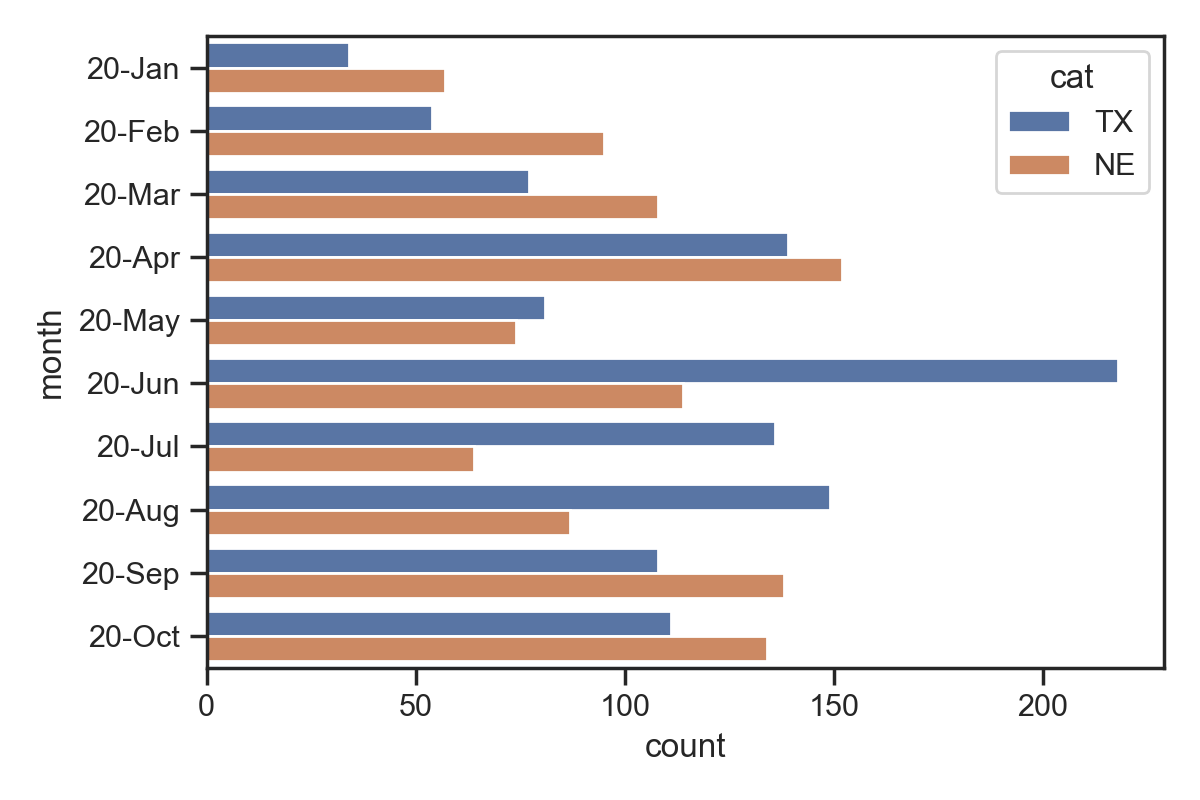
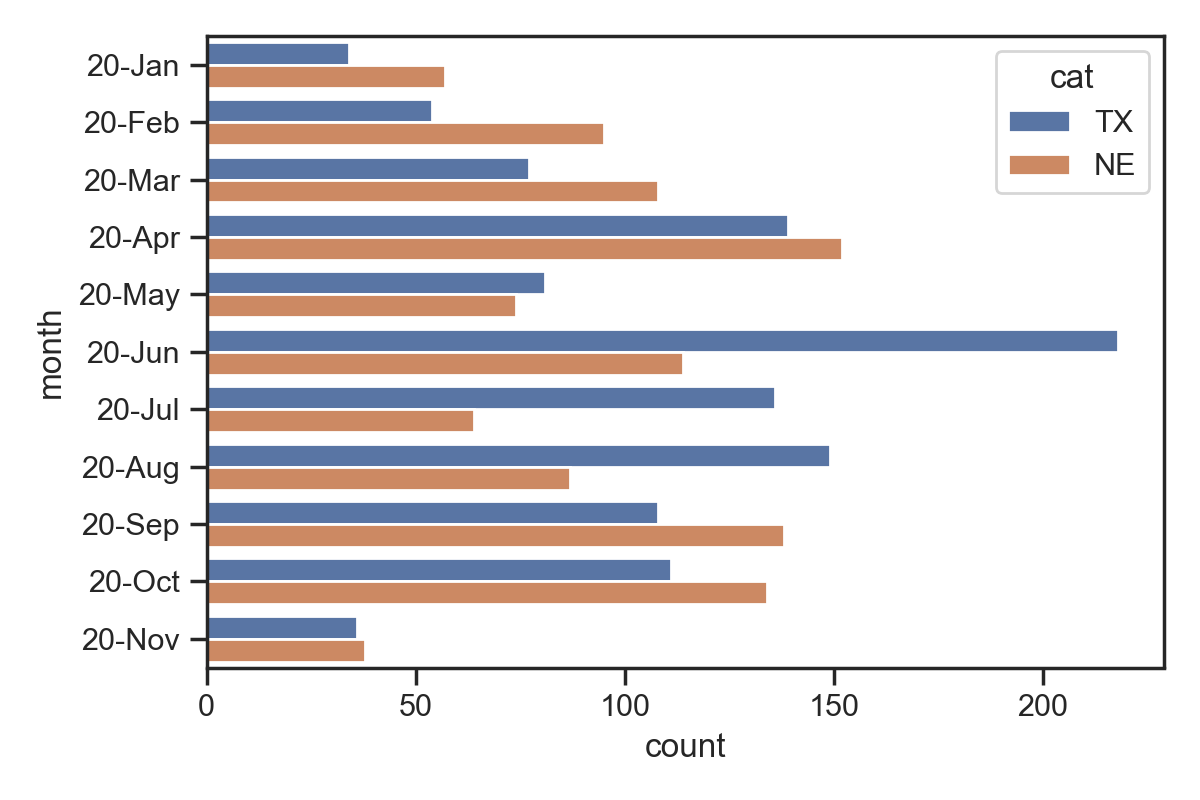
nov-26 update

Changed region(s): [[0.0617, 0.0625, 0.9558, 0.8438]]

diff --git a/README.md b/README.md
@@ -1,4 +1,4 @@
-## National Interest Waiver Wait Time, updated Nov-25-2020 
+## National Interest Waiver Wait Time, updated Nov-26-2020 
 USCIS Employment-based-2 national interest waiver wait time before approval (data source: [Victoria Chen](https://www.wegreened.com/eb1_niw_approvals)). 
  
 1. Distribution plot of approval time on by month, divided into Texas center and Nebraska center (diamonds are <5% and >95% outliers) 
